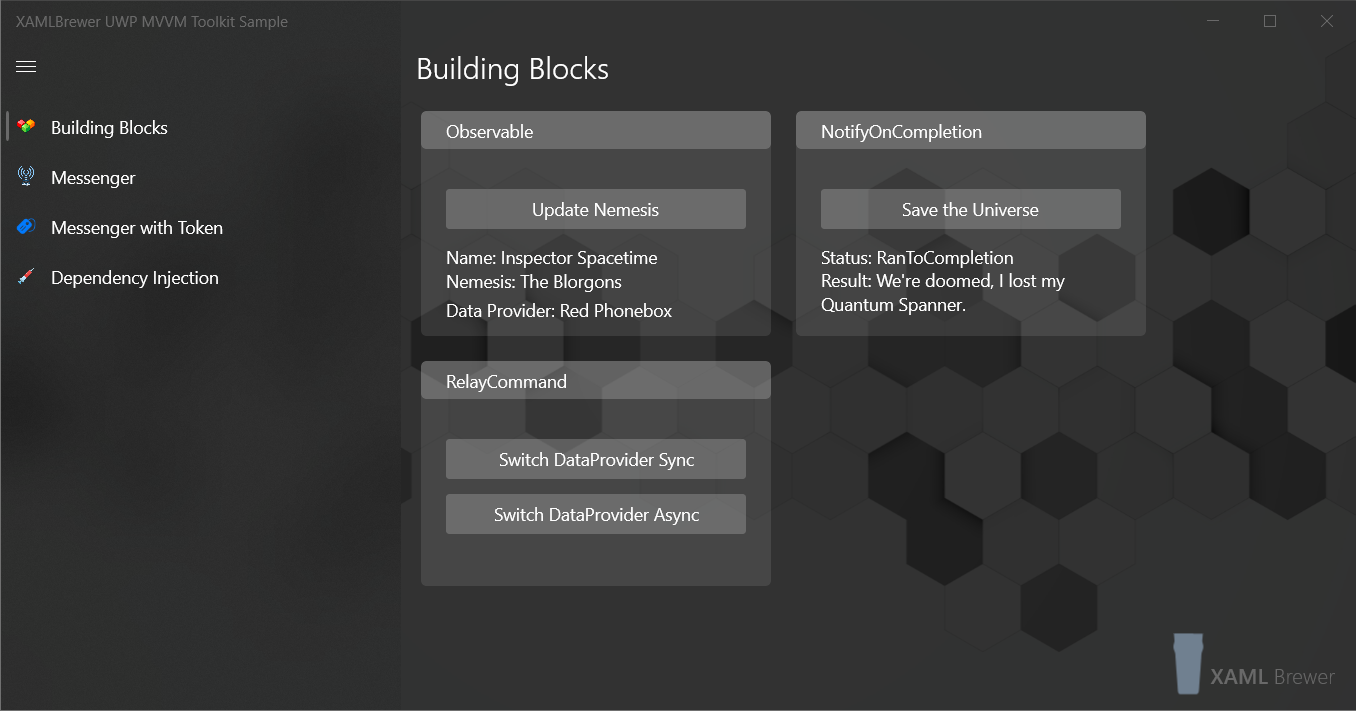
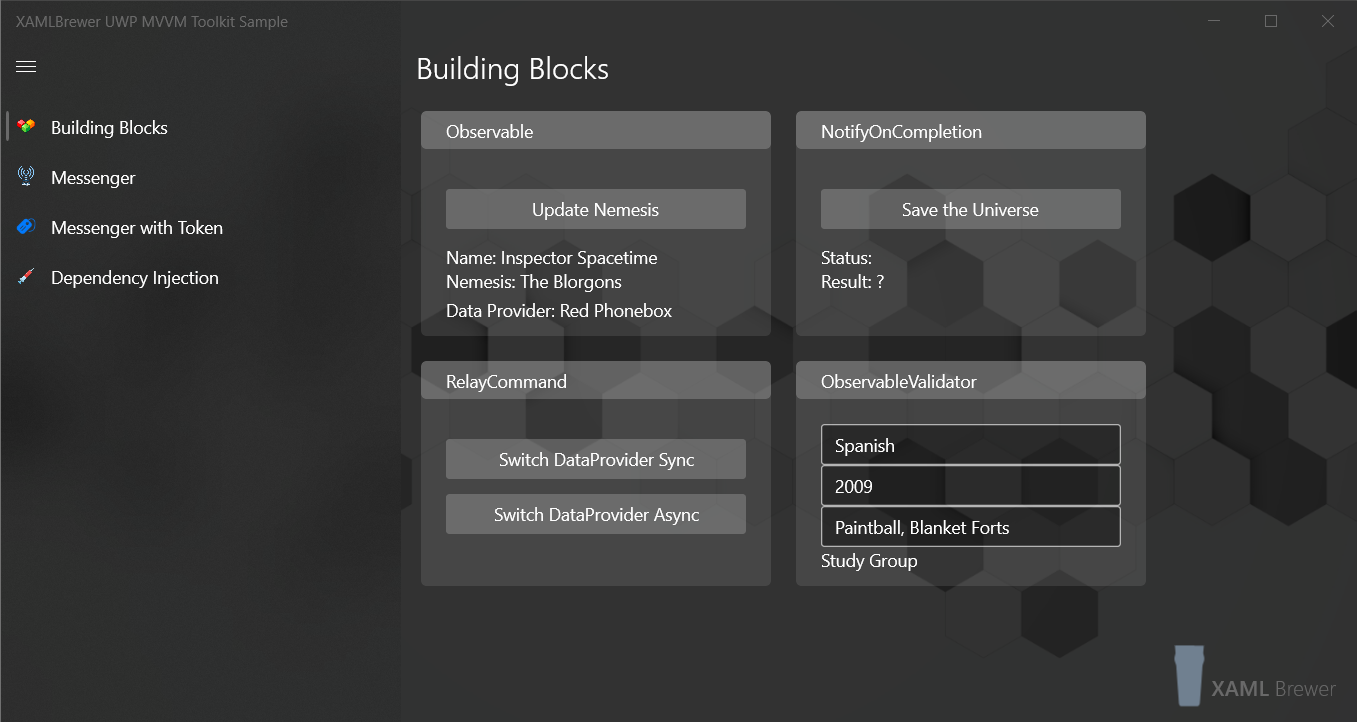
ObservableValidator sample complete

diff --git a/XamlBrewer.UWP.MvvmToolkit.Sample/Models/StudyGroup.cs b/XamlBrewer.UWP.MvvmToolkit.Sample/Models/StudyGroup.cs
@@ -41,11 +41,11 @@ namespace XamlBrewer.UWP.MvvmToolkit.Sample.Models
             set => SetProperty(ref _class, value, true);
         }
 
-        // TODO: a custom data annotation that compares with "Paintball".
+        [RegularExpression(@".*[pP]aintball.*", ErrorMessage = "Hobbies should contain 'Paintball'.")]
         public string Hobbies
         {
             get => _hobbies;
-            set => SetProperty(ref _hobbies, value);
+            set => SetProperty(ref _hobbies, value, true);
         }
 
         public string Errors => string.Join(Environment.NewLine, from ValidationResult e in GetErrors(null) select e.ErrorMessage);

diff --git a/README.md b/README.md
@@ -5,10 +5,10 @@
 Demonstrates using the Windows Community MVVM Toolkit in a UWP app.
 * Observable
 * RelayCommand and AsyncRelayCommand
-* ObservableValidator (IN PROGRESS)
+* ObservableValidator
 * Messenger and ObservableRecipient
 * Messenger with Token
-* Ioc
+* Ioc integration
 
 Screenshots (background image [Designed by starline / Freepik](http://www.freepik.com)):
 
